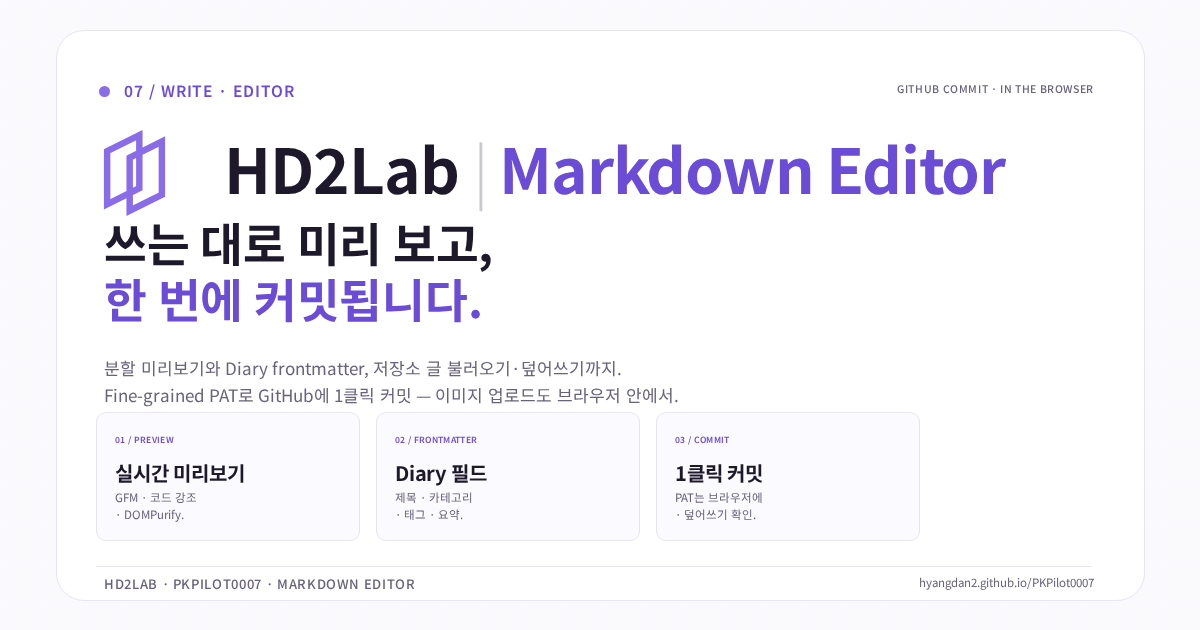
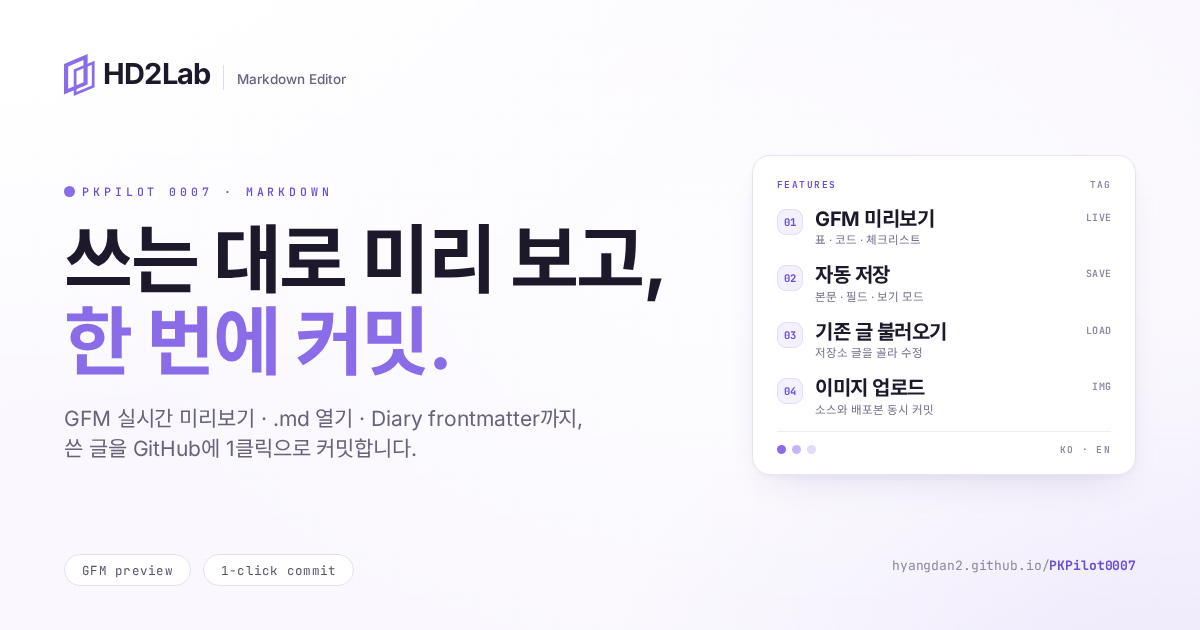
chore(og): share card in the HD2's Diary OG style (#4)
Rebuild og:image / twitter:image as the 1200x630 Diary-style card (Soft Iris wash, dual-skew mark, left title, right feature card) and bump the cache-busting query to ?v=20261121-og.

diff --git a/index.html b/index.html
@@ -12,14 +12,14 @@
     <meta property="og:title" content="HD2Lab | Markdown Editor">
     <meta property="og:description" content="GFM 실시간 미리보기, .md 열기, 기존 글 불러오기·덮어쓰기, Diary frontmatter + GitHub 1클릭 커밋.">
     <meta property="og:url" content="https://hyangdan2.github.io/PKPilot0007/">
-    <meta property="og:image" content="https://hyangdan2.github.io/PKPilot0007/og-image.png?v=20261119-og">
-    <meta property="og:image:secure_url" content="https://hyangdan2.github.io/PKPilot0007/og-image.png?v=20261119-og">
+    <meta property="og:image" content="https://hyangdan2.github.io/PKPilot0007/og-image.png?v=20261121-og">
+    <meta property="og:image:secure_url" content="https://hyangdan2.github.io/PKPilot0007/og-image.png?v=20261121-og">
     <meta property="og:image:type" content="image/png">
     <meta property="og:image:width" content="1200">
     <meta property="og:image:height" content="630">
     <meta property="og:image:alt" content="HD2Lab | Markdown Editor — 쓰는 대로 미리 보고, 한 번에 커밋됩니다">
     <meta name="twitter:card" content="summary_large_image">
-    <meta name="twitter:image" content="https://hyangdan2.github.io/PKPilot0007/og-image.png?v=20261119-og">
+    <meta name="twitter:image" content="https://hyangdan2.github.io/PKPilot0007/og-image.png?v=20261121-og">
     <meta name="twitter:image:alt" content="HD2Lab | Markdown Editor — 쓰는 대로 미리 보고, 한 번에 커밋됩니다">
     <!-- HD2Lab shared theme: applies the stored hd2-theme before first paint (no flash) -->
     <script>try{var h=localStorage.getItem('hd2-theme');document.documentElement.setAttribute('data-theme',h==='dark'?'dark':'light');}catch(e){document.documentElement.setAttribute('data-theme','light');}</script>
